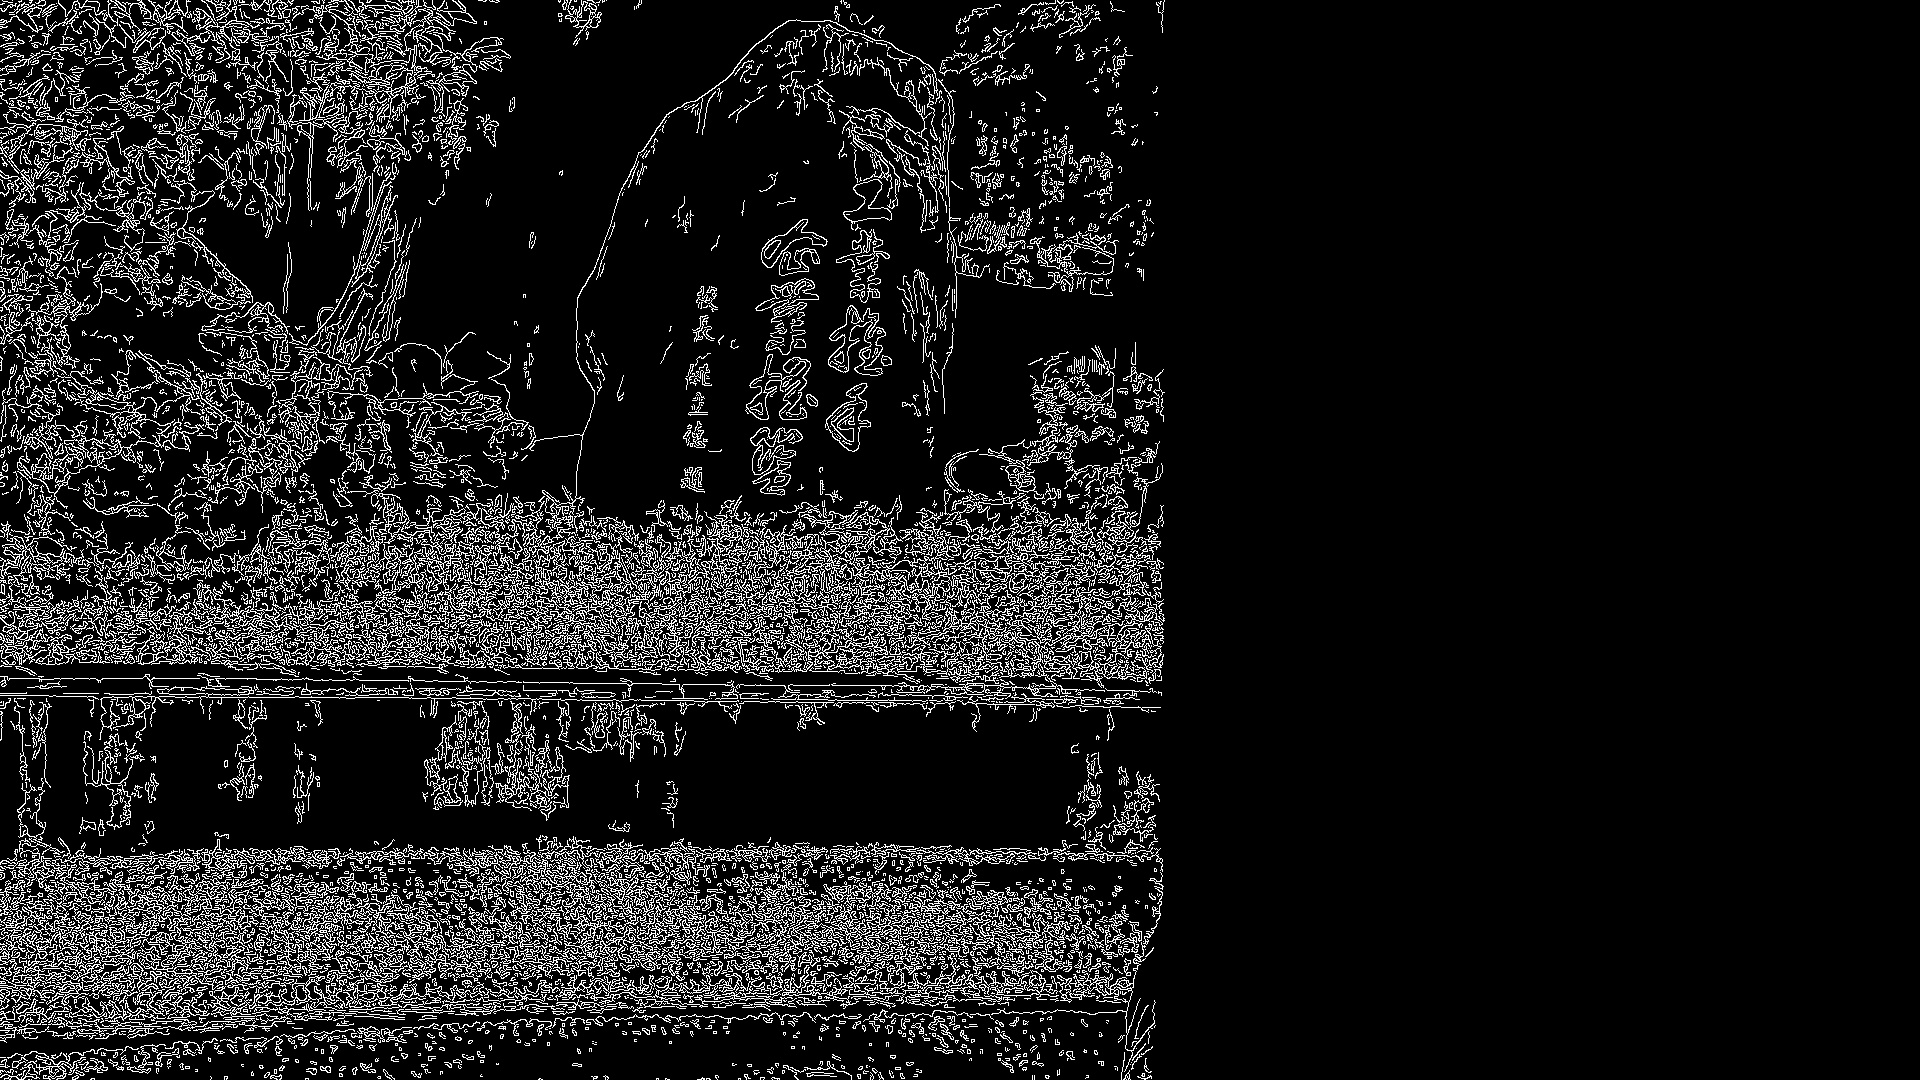
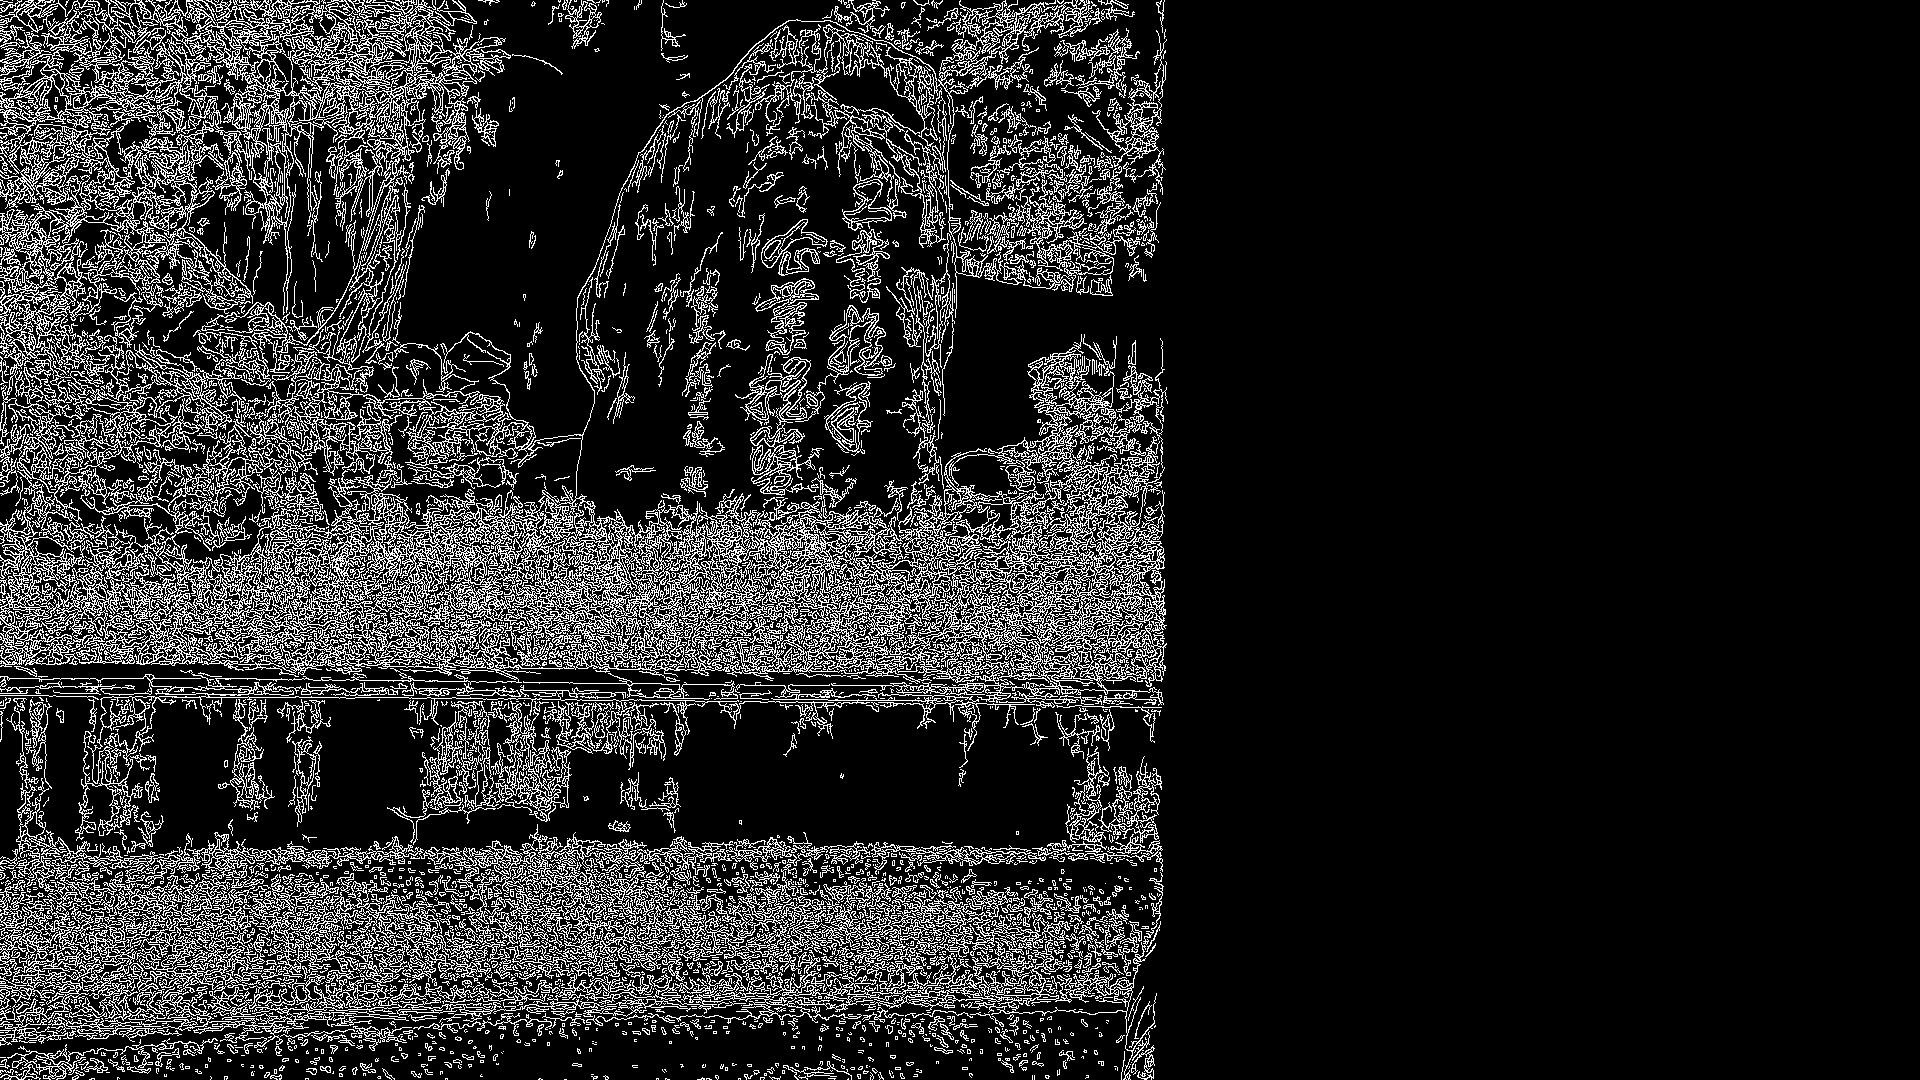
feat: edge detection and segmentation by edge

diff --git a/edge_detection.py b/edge_detection.py
@@ -1,13 +1,92 @@
 import cv2
+import numpy as np
+from utils import dilation_erosion
 
 
 def edge_detection(image):
-    gray = cv2.cvtColor(image, cv2.COLOR_BGR2GRAY)
-    edges = cv2.Canny(gray, 100, 200)
+    # 将图像拆分为 BGR 三个通道
+    b_channel, g_channel, r_channel = cv2.split(image)
+
+    # 对每个通道应用 Canny 边缘检测
+    b_edges = cv2.Canny(b_channel, 50, 150)
+    g_edges = cv2.Canny(g_channel, 50, 150)
+    r_edges = cv2.Canny(r_channel, 50, 150)
+
+    # 合并边缘
+    edges = cv2.bitwise_or(b_edges, g_edges)
+    edges = cv2.bitwise_or(edges, r_edges)
+
     return edges
 
 
+def find_contours(edges):
+    # 寻找边缘的轮廓
+    contours, _ = cv2.findContours(
+        edges, cv2.RETR_EXTERNAL, cv2.CHAIN_APPROX_SIMPLE)
+
+    # 创建一个与原始图像大小相同的掩码，用于绘制轮廓
+    gray = cv2.cvtColor(image, cv2.COLOR_BGR2GRAY)
+    mask = np.zeros_like(gray)
+
+    # 设置面积阈值，用于过滤小轮廓
+    area_threshold = 10000  # 根据需要调整阈值
+
+    # 遍历每个轮廓并绘制到掩码上
+    filtered_contours = []
+    for contour in contours:
+        # 计算当前轮廓的面积
+        area = cv2.contourArea(contour)
+
+        # 如果轮廓面积大于阈值，则保留该轮廓
+        if area > area_threshold:
+            filtered_contours.append(contour)
+            cv2.drawContours(mask, [contour], -1, (255), thickness=cv2.FILLED)
+
+    return filtered_contours
+
+
+def contours_segmentation(image, contours):
+    # 创建一个与原始图像大小相同的掩码
+    height, width, _ = image.shape
+    all_masks = np.zeros((height, width), dtype=np.uint8)
+
+    # 对每个轮廓提取并显示分割区域
+    for i, contour in enumerate(contours):
+        # 创建一个全黑图像作为掩码
+        mask = np.zeros((height, width), dtype=np.uint8)
+        # 在掩码上绘制当前轮廓
+        cv2.drawContours(mask, [contour], -1, (255), thickness=cv2.FILLED)
+        # 将掩码应用于原始彩色图像
+        segmented_image = cv2.bitwise_and(image, image, mask=mask)
+
+        # 显示每个分割区域
+        cv2.imshow(f'Segment {i+1}', segmented_image)
+        cv2.waitKey(0)
+
+    # 处理剩余未被任何轮廓覆盖的区域
+    # 将所有轮廓绘制在一起，生成完整掩码
+    for contour in contours:
+        cv2.drawContours(all_masks, [contour], -1, (255), thickness=cv2.FILLED)
+
+    # 取反得到未被覆盖的区域掩码
+    uncovered_mask = cv2.bitwise_not(all_masks)
+
+    # 将掩码应用于原始彩色图像
+    uncovered_regions = cv2.bitwise_and(image, image, mask=uncovered_mask)
+
+    # 显示剩余未被覆盖的区域
+    cv2.imshow('Uncovered Regions', uncovered_regions)
+    cv2.waitKey(0)
+
+    cv2.destroyAllWindows()
+
+
 if __name__ == '__main__':
-    image = cv2.imread('./images/sharpest_image.jpg')
+    image = cv2.imread('./result/sharpest_01.jpg')
     edges = edge_detection(image)
     cv2.imwrite('./images/edges.jpg', edges)
+    contours = find_contours(dilation_erosion(edges))
+    # contours = find_contours(edges)
+    print(f'Number of Contours: {len(contours)}')
+    cv2.imwrite('./images/contours.jpg', image)
+    segmented_image = contours_segmentation(image, contours)

diff --git a/utils.py b/utils.py
@@ -1,0 +1,9 @@
+import cv2
+import numpy as np
+
+
+def dilation_erosion(edges, kernel_size=5, iterations=1):
+    kernel = np.ones((kernel_size, kernel_size), np.uint8)
+    dilated = cv2.dilate(edges, kernel, iterations=iterations)
+    eroded = cv2.erode(dilated, kernel, iterations=iterations)
+    return eroded
